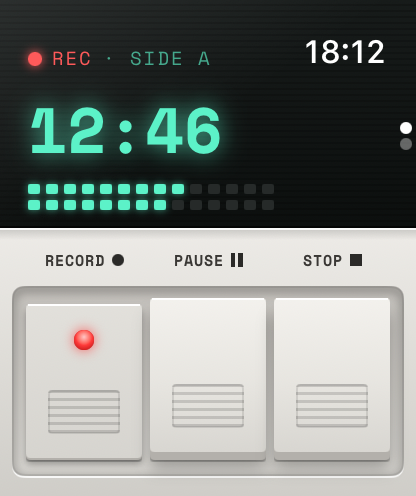
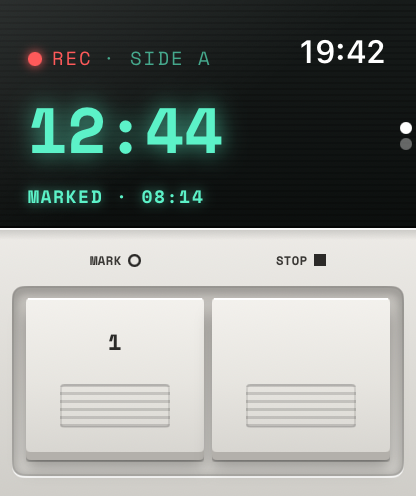
Cassette 1.1 is on the App Store: the watch shown with its two keys on /cassette and the press kit
Ready, Record and Tapes from the 1.1 App Store watch set (build 61) replace the 3-key Record, Pause, On iPhone and
Tapes screens; the watch has no PAUSE key now. "with pause and stop" becomes "two keys, RECORD and EJECT, then MARK
and STOP" on the page, its FAQ (matching cassette_ld word for word), the press kit and llms.txt.

diff --git a/cassette/index.html b/cassette/index.html
@@ -34,7 +34,7 @@
 {"@type":"WebSite","@id":"https://www.onelifeco.app/#site","name":"One Life","url":"https://www.onelifeco.app/","publisher":{"@id":"https://www.onelifeco.app/#org"}}
 ]}
 </script>
-<script type="application/ld+json">{"@context":"https://schema.org","@type":"SoftwareApplication","@id":"https://www.onelifeco.app/cassette/#app","name":"Cassette","alternateName":"Cassette: AI Note Taker","applicationCategory":"BusinessApplication","operatingSystem":"iOS 17.0 or later, iPadOS 17.0 or later, macOS 14.0 or later, watchOS 10.0 or later, Android 10 or later","url":"https://www.onelifeco.app/cassette/","sameAs":["https://apps.apple.com/us/app/cassette-ai-note-taker/id6812001404","https://play.google.com/store/apps/details?id=app.cassette.deck","https://www.producthunt.com/products/cassette-ai-note-taker","https://peerlist.io/luten/project/cassette-ai-note-taker","https://cassetteainotetaker.com/","https://www.instagram.com/cassetteainotetaker","https://www.tiktok.com/@cassetteainotetaker","https://www.youtube.com/@cassetteainotetaker","https://www.facebook.com/cassetteainotetaker"],"downloadUrl":"https://apps.apple.com/us/app/cassette-ai-note-taker/id6812001404","image":"https://www.onelifeco.app/cassette/cassette-icon.png","screenshot":["https://www.onelifeco.app/cassette/screen-deck.webp","https://www.onelifeco.app/cassette/screen-notes.webp","https://www.onelifeco.app/cassette/screen-transcript.webp","https://www.onelifeco.app/cassette/screen-email.webp","https://www.onelifeco.app/cassette/screen-shelf.webp"],"description":"A cassette deck for iPhone that records meetings, lectures, interviews and voice memos, then writes the transcript, the summary, the action items and the follow-up email.","offers":{"@type":"Offer","price":"0","priceCurrency":"USD","availability":"https://schema.org/InStock","url":"https://apps.apple.com/us/app/cassette-ai-note-taker/id6812001404"},"publisher":{"@id":"https://www.onelifeco.app/#org"}}</script><script type="application/ld+json">{"@context":"https://schema.org","@type":"FAQPage","mainEntity":[{"@type":"Question","name":"Is Cassette free?","acceptedAnswer":{"@type":"Answer","text":"Yes, to download and to record, with no minute meter. Tapes under 3 minutes get their transcript and notes free, and longer ones get them free for 2 tapes a month. Cassette Premium writes up every tape and backs up your shelf, and the annual plan starts with a 7-day free trial."}},{"@type":"Question","name":"Does my audio leave my phone?","acceptedAnswer":{"@type":"Answer","text":"Your tapes are stored on your phone, and there are a few ways they can leave it. On iPhone they are included in your iCloud and computer backups, if you use them. If you sign in with Premium, on iPhone or Android, they are backed up to your account, where only you can open them. On iPhone, transcripts come from Apple speech recognition, on the device wherever your iPhone supports your language; otherwise that recording may be sent to Apple to transcribe. The notes are written by Apple's models, never by an outside AI service: on iOS 27 the transcript goes to Apple's Private Cloud Compute, which does not keep it, and on earlier iPhones the notes are written on the device. Switch on On-device only in your profile and none of this happens on iPhone. On Android, the transcript and the notes are always written on the phone."}},{"@type":"Question","name":"Does Cassette work offline?","acceptedAnswer":{"@type":"Answer","text":"Recording always works in airplane mode. Transcripts and notes do too once the language has downloaded, and on Android once the notes model has arrived over Wi-Fi after install. On Android everything is written on the phone. On iPhone, speech is recognised on the device for the languages your iPhone supports there, and when Apple's Private Cloud Compute can't be reached the notes are written on the iPhone instead. Switch on On-device only in your profile and your tapes never leave the iPhone."}},{"@type":"Question","name":"Do I need an account?","acceptedAnswer":{"@type":"Answer","text":"No. Recording, transcripts and notes all work without one. Signing in keeps your purchase with you, and with Premium it backs up every tape so it comes back on a new phone."}},{"@type":"Question","name":"What goes in the notes?","acceptedAnswer":{"@type":"Answer","text":"A short summary, the highlights worth remembering, and the action items with owners and due dates when they are mentioned, plus a follow-up email draft for the people who came up."}},{"@type":"Question","name":"Which phones does it work on?","acceptedAnswer":{"@type":"Answer","text":"Any iPhone on iOS 17 or later. Notes by Apple Intelligence need an iPhone that supports it; other iPhones get simpler notes, written on the device. On Android, any phone on Android 10 or later: phones with 8 GB of memory or more get Cassette's own notes model, and others get simpler notes."}},{"@type":"Question","name":"Does it work on Apple Watch?","acceptedAnswer":{"@type":"Answer","text":"Yes. The Apple Watch app records with the watch's microphone, with pause and stop, and sends each tape to your iPhone, which writes the transcript and the notes. Start one from a watch face complication or with Siri. It needs watchOS 10 or later."}},{"@type":"Question","name":"Can I share what it writes?","acceptedAnswer":{"@type":"Answer","text":"Yes. Copy a whole tab in one tap, or save the email, the notes or the transcript as a PDF or a Word document."}},{"@type":"Question","name":"Does it keep recording with the screen off?","acceptedAnswer":{"@type":"Answer","text":"Yes. Lock your phone or switch apps and the tape keeps rolling. A phone call pauses it, and you pick up where you left off."}},{"@type":"Question","name":"How do I delete my recordings?","acceptedAnswer":{"@type":"Answer","text":"Open a tape and press Delete, or press and hold it on the shelf. Deleting your account removes every backed-up recording, transcript and note too."}}]}</script>
+<script type="application/ld+json">{"@context":"https://schema.org","@type":"SoftwareApplication","@id":"https://www.onelifeco.app/cassette/#app","name":"Cassette","alternateName":"Cassette: AI Note Taker","applicationCategory":"BusinessApplication","operatingSystem":"iOS 17.0 or later, iPadOS 17.0 or later, macOS 14.0 or later, watchOS 10.0 or later, Android 10 or later","url":"https://www.onelifeco.app/cassette/","sameAs":["https://apps.apple.com/us/app/cassette-ai-note-taker/id6812001404","https://play.google.com/store/apps/details?id=app.cassette.deck","https://www.producthunt.com/products/cassette-ai-note-taker","https://peerlist.io/luten/project/cassette-ai-note-taker","https://cassetteainotetaker.com/","https://www.instagram.com/cassetteainotetaker","https://www.tiktok.com/@cassetteainotetaker","https://www.youtube.com/@cassetteainotetaker","https://www.facebook.com/cassetteainotetaker"],"downloadUrl":"https://apps.apple.com/us/app/cassette-ai-note-taker/id6812001404","image":"https://www.onelifeco.app/cassette/cassette-icon.png","screenshot":["https://www.onelifeco.app/cassette/screen-deck.webp","https://www.onelifeco.app/cassette/screen-notes.webp","https://www.onelifeco.app/cassette/screen-transcript.webp","https://www.onelifeco.app/cassette/screen-email.webp","https://www.onelifeco.app/cassette/screen-shelf.webp"],"description":"A cassette deck for iPhone that records meetings, lectures, interviews and voice memos, then writes the transcript, the summary, the action items and the follow-up email.","offers":{"@type":"Offer","price":"0","priceCurrency":"USD","availability":"https://schema.org/InStock","url":"https://apps.apple.com/us/app/cassette-ai-note-taker/id6812001404"},"publisher":{"@id":"https://www.onelifeco.app/#org"}}</script><script type="application/ld+json">{"@context":"https://schema.org","@type":"FAQPage","mainEntity":[{"@type":"Question","name":"Is Cassette free?","acceptedAnswer":{"@type":"Answer","text":"Yes, to download and to record, with no minute meter. Tapes under 3 minutes get their transcript and notes free, and longer ones get them free for 2 tapes a month. Cassette Premium writes up every tape and backs up your shelf, and the annual plan starts with a 7-day free trial."}},{"@type":"Question","name":"Does my audio leave my phone?","acceptedAnswer":{"@type":"Answer","text":"Your tapes are stored on your phone, and there are a few ways they can leave it. On iPhone they are included in your iCloud and computer backups, if you use them. If you sign in with Premium, on iPhone or Android, they are backed up to your account, where only you can open them. On iPhone, transcripts come from Apple speech recognition, on the device wherever your iPhone supports your language; otherwise that recording may be sent to Apple to transcribe. The notes are written by Apple's models, never by an outside AI service: on iOS 27 the transcript goes to Apple's Private Cloud Compute, which does not keep it, and on earlier iPhones the notes are written on the device. Switch on On-device only in your profile and none of this happens on iPhone. On Android, the transcript and the notes are always written on the phone."}},{"@type":"Question","name":"Does Cassette work offline?","acceptedAnswer":{"@type":"Answer","text":"Recording always works in airplane mode. Transcripts and notes do too once the language has downloaded, and on Android once the notes model has arrived over Wi-Fi after install. On Android everything is written on the phone. On iPhone, speech is recognised on the device for the languages your iPhone supports there, and when Apple's Private Cloud Compute can't be reached the notes are written on the iPhone instead. Switch on On-device only in your profile and your tapes never leave the iPhone."}},{"@type":"Question","name":"Do I need an account?","acceptedAnswer":{"@type":"Answer","text":"No. Recording, transcripts and notes all work without one. Signing in keeps your purchase with you, and with Premium it backs up every tape so it comes back on a new phone."}},{"@type":"Question","name":"What goes in the notes?","acceptedAnswer":{"@type":"Answer","text":"A short summary, the highlights worth remembering, and the action items with owners and due dates when they are mentioned, plus a follow-up email draft for the people who came up."}},{"@type":"Question","name":"Which phones does it work on?","acceptedAnswer":{"@type":"Answer","text":"Any iPhone on iOS 17 or later. Notes by Apple Intelligence need an iPhone that supports it; other iPhones get simpler notes, written on the device. On Android, any phone on Android 10 or later: phones with 8 GB of memory or more get Cassette's own notes model, and others get simpler notes."}},{"@type":"Question","name":"Does it work on Apple Watch?","acceptedAnswer":{"@type":"Answer","text":"Yes. The Apple Watch app records with the watch's microphone using two keys, RECORD and EJECT, then MARK and STOP while it records, and sends each tape to your iPhone, which writes the transcript and the notes. Start one from a watch face complication or with Siri. It needs watchOS 10 or later."}},{"@type":"Question","name":"Can I share what it writes?","acceptedAnswer":{"@type":"Answer","text":"Yes. Copy a whole tab in one tap, or save the email, the notes or the transcript as a PDF or a Word document."}},{"@type":"Question","name":"Does it keep recording with the screen off?","acceptedAnswer":{"@type":"Answer","text":"Yes. Lock your phone or switch apps and the tape keeps rolling. A phone call pauses it, and you pick up where you left off."}},{"@type":"Question","name":"How do I delete my recordings?","acceptedAnswer":{"@type":"Answer","text":"Open a tape and press Delete, or press and hold it on the shelf. Deleting your account removes every backed-up recording, transcript and note too."}}]}</script>
 <!-- fonts -->
 <link rel="preconnect" href="https://fonts.googleapis.com" />
 <link rel="preconnect" href="https://fonts.gstatic.com" crossorigin />
@@ -302,10 +302,9 @@ document.addEventListener('DOMContentLoaded', function () {
       </div>
       <p class="eyebrow cas-watch-eyebrow">On Your Apple Watch</p>
       <div class="cas-watches">
-        <figure class="cas-watch"><img src="/cassette/watch-rec.webp" width="416" height="496" alt="Cassette recording on Apple Watch: the counter running and the meters lit above RECORD, PAUSE and STOP" loading="lazy" decoding="async" /><figcaption>Record</figcaption></figure>
-        <figure class="cas-watch"><img src="/cassette/watch-paused.webp" width="416" height="496" alt="A paused tape on Apple Watch" loading="lazy" decoding="async" /><figcaption>Pause</figcaption></figure>
-        <figure class="cas-watch"><img src="/cassette/watch-sent.webp" width="416" height="496" alt="Cassette on Apple Watch after a tape: the last one is already on the iPhone" loading="lazy" decoding="async" /><figcaption>On iPhone</figcaption></figure>
-        <figure class="cas-watch"><img src="/cassette/watch-tapes.webp" width="416" height="496" alt="The watch's tapes, each one on the iPhone" loading="lazy" decoding="async" /><figcaption>Tapes</figcaption></figure>
+        <figure class="cas-watch"><img src="/cassette/watch-ready.webp" width="416" height="496" alt="Cassette ready on Apple Watch: READY, SIDE A above the RECORD and EJECT keys, the last tape already on the iPhone" loading="lazy" decoding="async" /><figcaption>Ready</figcaption></figure>
+        <figure class="cas-watch"><img src="/cassette/watch-rec.webp" width="416" height="496" alt="Cassette recording on Apple Watch: the counter running and one moment marked, above the MARK and STOP keys" loading="lazy" decoding="async" /><figcaption>Record</figcaption></figure>
+        <figure class="cas-watch"><img src="/cassette/watch-tapes.webp" width="416" height="496" alt="The watch's tapes, each one marked ON IPHONE" loading="lazy" decoding="async" /><figcaption>Tapes</figcaption></figure>
       </div>
     </div>
   </section>
@@ -325,7 +324,7 @@ document.addEventListener('DOMContentLoaded', function () {
         <div class="inside"><b>Record from the Lock Screen</b><p>Add Cassette's widget to your Lock Screen or Home Screen and start a tape with one tap. While it records, the widget shows the counter.</p></div>
         <div class="inside"><b>A Record button</b><p>Put it in Control Center, on the Lock Screen or on the Action button. One tap starts a tape without opening Cassette, a second tap stops it. iOS 18 or later.</p></div>
         <div class="inside"><b>In the Dynamic Island</b><p>The tape counter stays in the Dynamic Island while you use other apps, and you can pause or mark the moment right there.</p></div>
-        <div class="inside" style="grid-column:1/-1;"><b>On your Apple Watch</b><p style="max-width:560px;">Record with the watch's microphone, and pause or stop on your wrist. Each tape goes to your iPhone, which writes the transcript and the notes. Start one from a watch face complication or with Siri. watchOS 10 or later.</p></div>
+        <div class="inside" style="grid-column:1/-1;"><b>On your Apple Watch</b><p style="max-width:560px;">Record with the watch's microphone using two keys: RECORD and EJECT, then MARK and STOP while it records. Each tape goes to your iPhone, which writes the transcript and the notes. Start one from a watch face complication or with Siri. watchOS 10 or later.</p></div>
         <div class="inside" style="grid-column:1/-1;"><b>On Android</b><p style="max-width:560px;">The same deck on Google Play, Android 10 or later. Transcripts are written on the phone by the Whisper model that comes with the app, and the notes by Cassette's own notes model on phones with 8 GB of memory or more; other phones get simpler notes. Send them to OneNote, Samsung Notes, Keep, Notion or Evernote in one tap.</p></div>
       </div>
     </div>
@@ -357,7 +356,7 @@ document.addEventListener('DOMContentLoaded', function () {
         <div class="diff"><h4>Do I need an account?</h4><p>No. Recording, transcripts and notes all work without one. Signing in keeps your purchase with you, and with Premium it backs up every tape so it comes back on a new phone.</p></div>
         <div class="diff"><h4>What goes in the notes?</h4><p>A short summary, the highlights worth remembering, and the action items with owners and due dates when they are mentioned, plus a follow-up email draft for the people who came up.</p></div>
         <div class="diff"><h4>Which phones does it work on?</h4><p>Any iPhone on iOS 17 or later. Notes by Apple Intelligence need an iPhone that supports it; other iPhones get simpler notes, written on the device. On Android, any phone on Android 10 or later: phones with 8 GB of memory or more get Cassette's own notes model, and others get simpler notes.</p></div>
-        <div class="diff"><h4>Does it work on Apple Watch?</h4><p>Yes. The Apple Watch app records with the watch's microphone, with pause and stop, and sends each tape to your iPhone, which writes the transcript and the notes. Start one from a watch face complication or with Siri. It needs watchOS 10 or later.</p></div>
+        <div class="diff"><h4>Does it work on Apple Watch?</h4><p>Yes. The Apple Watch app records with the watch's microphone using two keys, RECORD and EJECT, then MARK and STOP while it records, and sends each tape to your iPhone, which writes the transcript and the notes. Start one from a watch face complication or with Siri. It needs watchOS 10 or later.</p></div>
         <div class="diff"><h4>Can I share what it writes?</h4><p>Yes. Copy a whole tab in one tap, or save the email, the notes or the transcript as a PDF or a Word document.</p></div>
         <div class="diff"><h4>Does it keep recording with the screen off?</h4><p>Yes. Lock your phone or switch apps and the tape keeps rolling. A phone call pauses it, and you pick up where you left off.</p></div>
         <div class="diff"><h4>How do I delete my recordings?</h4><p>Open a tape and press Delete, or press and hold it on the shelf. Deleting your account removes every backed-up recording, transcript and note too.</p></div>

diff --git a/_source.html b/_source.html
@@ -685,10 +685,9 @@ document.addEventListener('DOMContentLoaded', function () {
       </div>
       <p class="eyebrow cas-watch-eyebrow">On Your Apple Watch</p>
       <div class="cas-watches">
-        <figure class="cas-watch"><img src="/cassette/watch-rec.webp" width="416" height="496" alt="Cassette recording on Apple Watch: the counter running and the meters lit above RECORD, PAUSE and STOP" loading="lazy" decoding="async" /><figcaption>Record</figcaption></figure>
-        <figure class="cas-watch"><img src="/cassette/watch-paused.webp" width="416" height="496" alt="A paused tape on Apple Watch" loading="lazy" decoding="async" /><figcaption>Pause</figcaption></figure>
-        <figure class="cas-watch"><img src="/cassette/watch-sent.webp" width="416" height="496" alt="Cassette on Apple Watch after a tape: the last one is already on the iPhone" loading="lazy" decoding="async" /><figcaption>On iPhone</figcaption></figure>
-        <figure class="cas-watch"><img src="/cassette/watch-tapes.webp" width="416" height="496" alt="The watch's tapes, each one on the iPhone" loading="lazy" decoding="async" /><figcaption>Tapes</figcaption></figure>
+        <figure class="cas-watch"><img src="/cassette/watch-ready.webp" width="416" height="496" alt="Cassette ready on Apple Watch: READY, SIDE A above the RECORD and EJECT keys, the last tape already on the iPhone" loading="lazy" decoding="async" /><figcaption>Ready</figcaption></figure>
+        <figure class="cas-watch"><img src="/cassette/watch-rec.webp" width="416" height="496" alt="Cassette recording on Apple Watch: the counter running and one moment marked, above the MARK and STOP keys" loading="lazy" decoding="async" /><figcaption>Record</figcaption></figure>
+        <figure class="cas-watch"><img src="/cassette/watch-tapes.webp" width="416" height="496" alt="The watch's tapes, each one marked ON IPHONE" loading="lazy" decoding="async" /><figcaption>Tapes</figcaption></figure>
       </div>
     </div>
   </section>
@@ -708,7 +707,7 @@ document.addEventListener('DOMContentLoaded', function () {
         <div class="inside"><b>Record from the Lock Screen</b><p>Add Cassette's widget to your Lock Screen or Home Screen and start a tape with one tap. While it records, the widget shows the counter.</p></div>
         <div class="inside"><b>A Record button</b><p>Put it in Control Center, on the Lock Screen or on the Action button. One tap starts a tape without opening Cassette, a second tap stops it. iOS 18 or later.</p></div>
         <div class="inside"><b>In the Dynamic Island</b><p>The tape counter stays in the Dynamic Island while you use other apps, and you can pause or mark the moment right there.</p></div>
-        <div class="inside" style="grid-column:1/-1;"><b>On your Apple Watch</b><p style="max-width:560px;">Record with the watch's microphone, and pause or stop on your wrist. Each tape goes to your iPhone, which writes the transcript and the notes. Start one from a watch face complication or with Siri. watchOS 10 or later.</p></div>
+        <div class="inside" style="grid-column:1/-1;"><b>On your Apple Watch</b><p style="max-width:560px;">Record with the watch's microphone using two keys: RECORD and EJECT, then MARK and STOP while it records. Each tape goes to your iPhone, which writes the transcript and the notes. Start one from a watch face complication or with Siri. watchOS 10 or later.</p></div>
         <div class="inside" style="grid-column:1/-1;"><b>On Android</b><p style="max-width:560px;">The same deck on Google Play, Android 10 or later. Transcripts are written on the phone by the Whisper model that comes with the app, and the notes by Cassette's own notes model on phones with 8 GB of memory or more; other phones get simpler notes. Send them to OneNote, Samsung Notes, Keep, Notion or Evernote in one tap.</p></div>
       </div>
     </div>
@@ -740,7 +739,7 @@ document.addEventListener('DOMContentLoaded', function () {
         <div class="diff"><h4>Do I need an account?</h4><p>No. Recording, transcripts and notes all work without one. Signing in keeps your purchase with you, and with Premium it backs up every tape so it comes back on a new phone.</p></div>
         <div class="diff"><h4>What goes in the notes?</h4><p>A short summary, the highlights worth remembering, and the action items with owners and due dates when they are mentioned, plus a follow-up email draft for the people who came up.</p></div>
         <div class="diff"><h4>Which phones does it work on?</h4><p>Any iPhone on iOS 17 or later. Notes by Apple Intelligence need an iPhone that supports it; other iPhones get simpler notes, written on the device. On Android, any phone on Android 10 or later: phones with 8 GB of memory or more get Cassette's own notes model, and others get simpler notes.</p></div>
-        <div class="diff"><h4>Does it work on Apple Watch?</h4><p>Yes. The Apple Watch app records with the watch's microphone, with pause and stop, and sends each tape to your iPhone, which writes the transcript and the notes. Start one from a watch face complication or with Siri. It needs watchOS 10 or later.</p></div>
+        <div class="diff"><h4>Does it work on Apple Watch?</h4><p>Yes. The Apple Watch app records with the watch's microphone using two keys, RECORD and EJECT, then MARK and STOP while it records, and sends each tape to your iPhone, which writes the transcript and the notes. Start one from a watch face complication or with Siri. It needs watchOS 10 or later.</p></div>
         <div class="diff"><h4>Can I share what it writes?</h4><p>Yes. Copy a whole tab in one tap, or save the email, the notes or the transcript as a PDF or a Word document.</p></div>
         <div class="diff"><h4>Does it keep recording with the screen off?</h4><p>Yes. Lock your phone or switch apps and the tape keeps rolling. A phone call pauses it, and you pick up where you left off.</p></div>
         <div class="diff"><h4>How do I delete my recordings?</h4><p>Open a tape and press Delete, or press and hold it on the shelf. Deleting your account removes every backed-up recording, transcript and note too.</p></div>

diff --git a/cassette/press.html b/cassette/press.html
@@ -217,7 +217,7 @@ document.addEventListener('click', function (e) {
     <li>Playback from half speed to double speed</li>
     <li>Start a tape with one tap from a Home Screen or Lock Screen widget, or from a Record button in Control Center, on the Lock Screen or on the Action button (iOS 18 or later), without opening the app</li>
     <li>The recording shows in the Dynamic Island, where it can be paused or marked</li>
-    <li>An Apple Watch app records with the watch's microphone, with pause and stop, and sends each tape to the iPhone for its transcript and notes; a watch face complication or Siri starts one</li>
+    <li>An Apple Watch app records with the watch's microphone using two keys, RECORD and EJECT, then MARK and STOP while it records, and sends each tape to the iPhone for its transcript and notes; a watch face complication or Siri starts one</li>
     <li>SEND TO: one key at the end of a tape's notes or transcript sends them to Apple Notes, Microsoft OneNote, Notion, Evernote or Google Keep, organized, with the summary, decisions, action items with who and when, and key points (new in 1.0.7)</li>
     <li>On iOS 26 and later the transcript is written while you record, so it is ready the moment you press STOP</li>
     <li>Note templates, so the notes take the shape of the recording: meeting, 1:1, lecture, interview, client call, doctor's visit, brainstorm or voice note</li>
@@ -281,10 +281,9 @@ document.addEventListener('click', function (e) {
   <h3>Apple Watch screens</h3>
   <p class="note">From Apple Watch Series 10 (46 mm), 416 by 496 PNG.</p>
   <div class="shots">
-    <a href="/cassette/media/cassette-watch-rec.png"><img src="/cassette/watch-rec.webp" width="416" height="496" loading="lazy" alt="Cassette recording on Apple Watch: the counter running and the meters lit above RECORD, PAUSE and STOP"></a>
-    <a href="/cassette/media/cassette-watch-paused.png"><img src="/cassette/watch-paused.webp" width="416" height="496" loading="lazy" alt="A paused tape on Apple Watch"></a>
-    <a href="/cassette/media/cassette-watch-sent.png"><img src="/cassette/watch-sent.webp" width="416" height="496" loading="lazy" alt="Cassette on Apple Watch after a tape: the last one is already on the iPhone"></a>
-    <a href="/cassette/media/cassette-watch-tapes.png"><img src="/cassette/watch-tapes.webp" width="416" height="496" loading="lazy" alt="The watch's tapes, each one on the iPhone"></a>
+    <a href="/cassette/media/cassette-watch-ready.png"><img src="/cassette/watch-ready.webp" width="416" height="496" loading="lazy" alt="Cassette ready on Apple Watch: READY, SIDE A above the RECORD and EJECT keys"></a>
+    <a href="/cassette/media/cassette-watch-rec.png"><img src="/cassette/watch-rec.webp" width="416" height="496" loading="lazy" alt="Cassette recording on Apple Watch: the counter running and one moment marked, above the MARK and STOP keys"></a>
+    <a href="/cassette/media/cassette-watch-tapes.png"><img src="/cassette/watch-tapes.webp" width="416" height="496" loading="lazy" alt="The watch's tapes, each one marked ON IPHONE"></a>
   </div>
   <p class="note">The meetings shown are samples written for these screenshots.</p>
 

diff --git a/cassette_ld.py b/cassette_ld.py
@@ -122,8 +122,9 @@ FAQ = [
      "On Android, any phone on Android 10 or later: phones with 8 GB of memory or "
      "more get Cassette's own notes model, and others get simpler notes."),
     ("Does it work on Apple Watch?",
-     "Yes. The Apple Watch app records with the watch's microphone, with pause "
-     "and stop, and sends each tape to your iPhone, which writes the transcript "
+     "Yes. The Apple Watch app records with the watch's microphone using two "
+     "keys, RECORD and EJECT, then MARK and STOP while it records, and sends "
+     "each tape to your iPhone, which writes the transcript "
      "and the notes. Start one from a watch face complication or with Siri. It "
      "needs watchOS 10 or later."),
     ("Can I share what it writes?",
